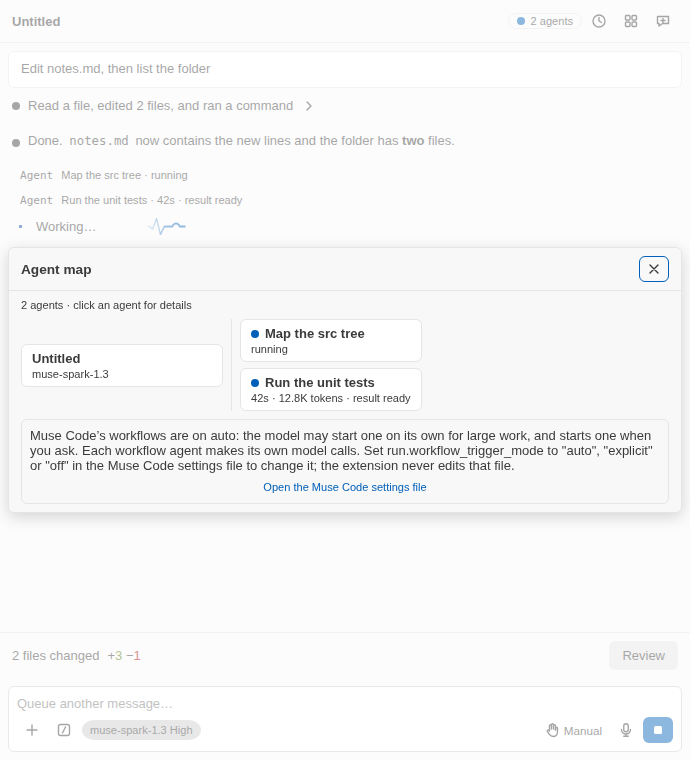
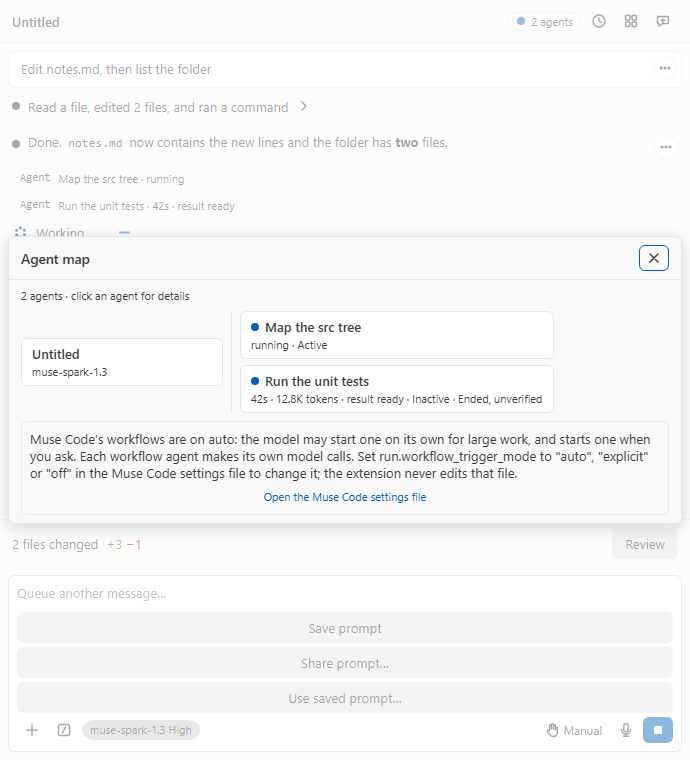
docs: certify agent outcomes and four-theme receipts
Record complete-file default-timeout tests, byte-exact gate-fire drills,
unchanged production budgets and explicit backend recovery limits.
Include inspected four-theme receipts and the regenerated README screenshot.

diff --git a/docs/certification/agent-outcomes.md b/docs/certification/agent-outcomes.md
@@ -1,0 +1,135 @@
+# M119 certification — agent activity, outcomes and receipts
+
+Recorded 2026-10-06–07 on the Windows 11 rig, worktree
+`C:/lanes/AGENTOUTCOME`, branch `feat/agent-outcomes`, base `aa4e3fa83`.
+PLAN D101 and M119 were committed before implementation (`f3fb5056`).
+Implementation is `93176c8f`; its unchanged pre-commit hooks passed ESLint,
+Prettier and the redacted staged Gitleaks scan with no leaks.
+No dependency, gate threshold, timeout, bundle cap or machine setting changed.
+No live or paid model request was made. All new model responses are test fakes.
+
+## Delivered behavior
+
+| Brief item               | Result and evidence                                                                                                                                                                                                                                                                                                                                                                                                                                               |
+| ------------------------ | ----------------------------------------------------------------------------------------------------------------------------------------------------------------------------------------------------------------------------------------------------------------------------------------------------------------------------------------------------------------------------------------------------------------------------------------------------------------- |
+| Plan first               | D101 records the evidence and limits of all five sources; M119 records child-local task declarations and native recovery limits.                                                                                                                                                                                                                                                                                                                                  |
+| Activity                 | Shared `agentActivity` supplies Active, Waiting with approval/input/queue/interruption/idle reason, or Inactive. The named output window is 5 seconds, refreshed by a mounted surface clock. Text accompanies the existing marks.                                                                                                                                                                                                                                 |
+| Ended outcome            | Structured stop, worktree, task-list and final-check proof decide Complete, Incomplete, Failed, Cancelled or Ended, unverified. Budget, dirty private worktree, unfinished work and required checks missing have dedicated assertions. Neither final prose nor a normal native end certifies completion.                                                                                                                                                          |
+| Continue                 | Model API keeps the same session, model, shared workspace and existing edits. A structured continuation note precedes the original objective byte-for-byte. Current permissions, fresh paid consent and budgets still apply. Plan mode refuses. The panel and ACP always ask the owner, including Bypass, and reject stale confirmation.                                                                                                                          |
+| Retry                    | Owner control and ACP command ask first, then explicitly refuse without an isolated checkpoint. Every current backend either shares the workspace or has no captured child checkpoint. No workspace reset or fabricated fresh attempt occurs. A successful checkpoint-reset test is blocked by this backend capability, rather than represented by a fake implementation.                                                                                         |
+| Native/workflow recovery | Ended native Continue and workflow/background recovery refuse with a reason. Native interrupted Resume retains its existing captured behavior. Successful ended-native preservation and workflow controls require accepted live captures, unavailable in this lane.                                                                                                                                                                                               |
+| Attempt history          | Owned Model API attempts survive session serialization. Observed native/workflow attempts retain earlier outcomes and receipts; repeated snapshots preserve child-check evidence. Native history begins with what this host observed, since the CLI supplies no full attempt archive.                                                                                                                                                                             |
+| Receipts                 | Lazy Agent map selection/disclosure shows redacted final text, stop reason, unfinished items, file links with added/removed counts, own commands/check outcomes, supplied exits and duration, and prior attempts. Each receipt caps strings at 16,384 characters and rows at 100; oversized or unavailable evidence is labelled honestly. Captured patch refs are read locally on selection, within a bounded page allowance.                                     |
+| ACP / other editors      | `/agents`, `/agents receipt ID`, `/agents continue ID`, `/agents retry ID` use the same portable mapping, owned evidence and receipts. Read-only inspection also works while a model turn is active. Recovery uses an editor permission request; local inspection sends no model turn. ACP capability/refusal behavior applies in JetBrains, Visual Studio, Eclipse, Zed, Xcode and terminal editors using this agent. No new editor-specific API was introduced. |
+| Localization / reference | All 14 real translations, feature catalog, CLI catalog, generated runtime reference and `docs/reference.md` updated. README describes evidence limits and commands.                                                                                                                                                                                                                                                                                               |
+| Accessibility / visuals  | All ten activity/outcome scenes scan in light, dark, high-contrast dark and high-contrast light. Outcome text has polite live regions. Readiness requires the intended map/details view. Receipt fixtures exercise linked files and command rows. README Agent map screenshot regenerated.                                                                                                                                                                        |
+
+## Captured wire and owned evidence
+
+No new Muse Code wire field or RPC verb was invented. `agentEvidence`,
+`agentWorkflowEvidence` and `changedFiles` are owned snapshot fields outside
+`itemSnapshotFields`; a test injects a forged native completion record and
+proves it is stripped before owned observation.
+
+- M14/M18 subagent/control/history fields reuse the existing fixtures and
+  [M18 record](m18.md), `scratchpad/live-subagents*.log`: allowed spawns cost
+  10 model attempts, then 9 in the fully logged repeat; denied spawns cost 25. The inherited record describes the temporary delegation configuration
+  but does not name its workspace. This lane adds no parser field to that
+  capture and claims no new live receipt.
+- M47 child ID, attempt, status and independently read optional fields reuse
+  [M47's live capture](m47.md): empty `C:/muse-live-m47`, Muse Code 1.3.0,
+  8 contributor attempts including the aborted capture. The existing child
+  parser is shared between the reducer and local ACP listing; unknown values
+  remain displayable.
+- File counts reuse the [M4 captured patch-document schema](m4.md), already
+  validated by `parsePatchFiles`, including Windows path normalization.
+- Model API stops, request/tool-round budgets, tool exits, duration, task
+  lists and shared-workspace attribution come from the owned harness.
+  The existing parsed `response.incomplete` reason is reused. These are
+  implementation records, not guessed provider response fields.
+
+## Verification
+
+All checks ran directly on the Windows 11 rig. Every Vitest invocation runs
+complete files, at most three per invocation, with `--maxWorkers=3` and the
+repository default timeouts. No tests are skipped or selected by name. The
+latest passing run of each of these **19 distinct files totals 2,071 tests**;
+repeated runs and intentional drill failures are excluded from that total.
+
+| Complete files (unit unless specified)                                                                                                        | Tests passed |
+| --------------------------------------------------------------------------------------------------------------------------------------------- | -----------: |
+| `agentOutcome.test.ts`, `AgentMap.test.tsx`, `WorkflowRun.test.tsx`                                                                           |           42 |
+| `conversationController.test.ts`, `acpAgent.test.ts`, `MuseCodeHost.test.ts`                                                                  |          787 |
+| `modelApiHost.test.ts`, `modelApiTools.test.ts`, `sessionStore.test.ts`                                                                       |          672 |
+| `uiState.test.ts`, `App.test.tsx`, `referenceGenerator.test.mjs`                                                                              |          388 |
+| `l10n.test.ts`, `readmeShots.test.mjs`, `cliFeatures.test.ts`                                                                                 |           49 |
+| `acpQuestionDeferral.test.ts`, `referenceEntry.test.ts`, `ReferencePage.test.tsx`, `test/e2e/museCode.e2e.test.ts` (split across invocations) |          133 |
+
+| Check                                   | Result                                                                                                                                                                                                                                                                                                                      |
+| --------------------------------------- | --------------------------------------------------------------------------------------------------------------------------------------------------------------------------------------------------------------------------------------------------------------------------------------------------------------------------- |
+| `npm run typecheck`                     | All five host, webview, unit, e2e and integration projects passed on the final source.                                                                                                                                                                                                                                      |
+| Changed-file ESLint, `--max-warnings=0` | Passed; changed-file checks include the final recovery-stamp and bounded-patch changes. Hooks repeat lint on staged source.                                                                                                                                                                                                 |
+| Changed-file Prettier                   | Passed; final documentation is formatted and checked before commit.                                                                                                                                                                                                                                                         |
+| `npm run deadcode`                      | Plain knip exited 0; two existing configuration hints, no dead-code finding.                                                                                                                                                                                                                                                |
+| `npm run duplication`                   | 0 clones, unchanged zero threshold. Shared captured workflow parser and recovery-history test fixture remove two new duplicates.                                                                                                                                                                                            |
+| `npm run check:l10n`                    | 14 tables, 0 problems.                                                                                                                                                                                                                                                                                                      |
+| `npm run check:reference`               | Current: 56 features, 52 commands, 61 settings, 26 slash commands, 130 CLI entries; sharing reference matches catalog.                                                                                                                                                                                                      |
+| `npm run check:host-api`                | 336 APIs, 34 VS Code importing files, 26 Node built-ins, 65 theme variables; 0 problems.                                                                                                                                                                                                                                    |
+| `npm run build`                         | Final production build, all size caps, split checks, host globals and notices passed; 83 bundled packages.                                                                                                                                                                                                                  |
+| Four-theme accessibility                | `node scripts/a11y.mjs` on all ten `agent-*` scenes plus `background-map`, `muse-workflow` and `muse-workflow-map`: 52 pages, 13 scenes, 0 violated rules, 0 undecided rules, 0 exempt findings, 0 missing results. Eight offscreen contrast nodes occur in the existing workflow scenes; all 40 new-state pages have none. |
+| `npm run readme:shots -- --only agents` | `media/readme/agents.png` regenerated successfully and visually inspected.                                                                                                                                                                                                                                                  |
+| Harness captures                        | Complete, incomplete and failed receipts rendered in all four themes. All four incomplete certification images and the README map were visually inspected.                                                                                                                                                                  |
+
+The final production measurements retain the existing caps:
+
+| Bundle / measured closure                |   KiB | Cap KiB |
+| ---------------------------------------- | ----: | ------: |
+| Activation `dist/extension.js`           | 451.6 |     600 |
+| First chat `dist/conversation.js`        | 220.9 |     250 |
+| Model API `dist/modelApi.js`             | 455.4 |     475 |
+| ACP `dist/acp.js`                        | 847.4 |     850 |
+| Checkpoint store                         |  77.0 |     225 |
+| Webview startup including static imports | 736.9 |     900 |
+| Agent map including its imports          |  17.7 |      25 |
+| Original deferred aggregate              |  32.1 |      50 |
+
+The rig/shared brief prohibits aggregate `npm run quality`, the full unit
+suite, live calls and unlisted merges. The lead retains aggregate quality,
+hosted editor execution and live preservation/checkpoint captures. This is
+a scoped lane certification, not a new live-backend support claim. No packages
+or system dependencies were installed; the repository's existing Husky was
+initialized before the plan commit, and every commit uses the unchanged hooks.
+
+## Gate-fire drills
+
+Three final drills deliberately produced **11 failing assertions**. Every
+mutated file was restored from saved bytes in `finally`, with its before/after
+SHA-256 compared; complete restored test files then passed at default timeouts.
+Logs are local ignored artifacts in `temp/`.
+
+| Mutation                                                                                                                | Full-file failure result                                                                                                                                                                     | Restoration / normal result                                                                                                              |
+| ----------------------------------------------------------------------------------------------------------------------- | -------------------------------------------------------------------------------------------------------------------------------------------------------------------------------------------- | ---------------------------------------------------------------------------------------------------------------------------------------- |
[1 lines of base64/hex data omitted]
+| Retry refusal removed; receipt clipping removed; wire parser allowed owned evidence; owner-confirmation branch bypassed | Three full files: exit 1, 5 failed / 703 passed (`outcome-guards-drill.log`). Failures cover Retry refusal, bounded receipts, forged native proof and confirmation of both recovery actions. | All four files restored byte-exact; immediate restored run 708/708, later final recovery-stamp/controller/ACP run 710/710.               |
[1 lines of base64/hex data omitted]
+
+The four-file drill's restoration hashes describe the bytes at that drill;
+subsequent reviewed recovery-stamp and invalid-patch changes are covered by
+the final normal runs and gates:
+
+| File                                              | SHA-256 at byte-exact restoration                                  |
+| ------------------------------------------------- | ------------------------------------------------------------------ |
[4 lines of base64/hex data omitted]
+
+## Visual receipts
+
+![Incomplete receipt in dark theme](agent-outcomes-dark.png)
+
+![Incomplete receipt in light theme](agent-outcomes-light.png)
+
+![Incomplete receipt in high-contrast dark](agent-outcomes-hc-dark.png)
+
+![Incomplete receipt in high-contrast light](agent-outcomes-hc-light.png)
